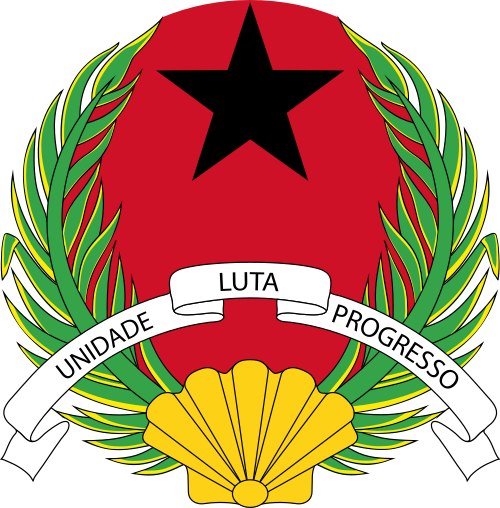
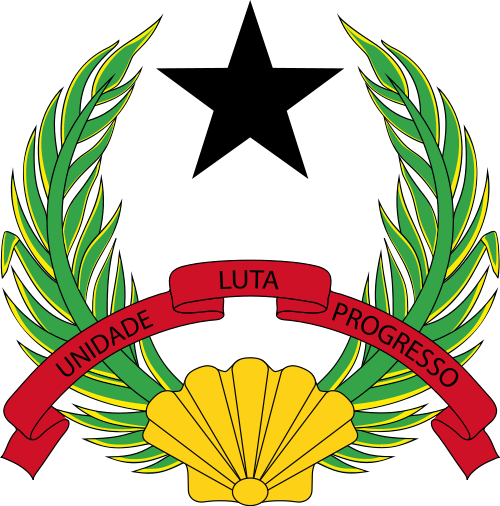
scraper update

diff --git a/newInfo.js b/newInfo.js
@@ -1,4 +1,4 @@
-const lastChecked = "August 1, 2023";
+const lastChecked = "August 3, 2023";
 const newInfo = [
     {
         country: {"name":"Afghanistan","url":"https://en.wikipedia.org/wiki/Afghanistan"}, 
@@ -28,7 +28,7 @@ const newInfo = [
     }, 
     {
         country: {"name":"Algeria","url":"https://en.wikipedia.org/wiki/Algeria"}, 
-        leader: {"title":"President","pos":"president","name":"Abdelmadjid Tebboune","url":"https://en.wikipedia.org/wiki/Abdelmadjid_Tebboune","imgUrl":"https://upload.wikimedia.org/wikipedia/commons/thumb/5/5b/%D0%90%D0%B1%D0%B4%D0%B5%D0%BB%D1%8C%D0%BC%D0%B0%D0%B4%D0%B6%D0%B8%D0%B4_%D0%A2%D0%B5%D0%B1%D0%B1%D1%83%D0%BD_%2806-11-2021%29.jpg/500px-%D0%90%D0%B1%D0%B4%D0%B5%D0%BB%D1%8C%D0%BC%D0%B0%D0%B4%D0%B6%D0%B8%D0%B4_%D0%A2%D0%B5%D0%B1%D0%B1%D1%83%D0%BD_%2806-11-2021%29.jpg"}, 
+        leader: {"title":"President","pos":"president","name":"Abdelmadjid Tebboune","url":"https://en.wikipedia.org/wiki/Abdelmadjid_Tebboune","imgUrl":"https://upload.wikimedia.org/wikipedia/commons/thumb/f/fb/Abdelmadjid_Tebboune_%282023%29_%28cropped%29.jpg/500px-Abdelmadjid_Tebboune_%282023%29_%28cropped%29.jpg"}, 
         flag: {"url":"https://upload.wikimedia.org/wikipedia/commons/thumb/7/77/Flag_of_Algeria.svg/500px-Flag_of_Algeria.svg.png"}, 
         symbol: {"url":"https://upload.wikimedia.org/wikipedia/commons/thumb/8/8d/National_Emblem_of_Algeria.svg/500px-National_Emblem_of_Algeria.svg.png"}, 
         map: {"url":"https://upload.wikimedia.org/wikipedia/commons/thumb/2/23/Algeria_%28centered_orthographic_projection%29.svg/500px-Algeria_%28centered_orthographic_projection%29.svg.png"}, 
@@ -346,7 +346,7 @@ const newInfo = [
         map: {"url":"https://upload.wikimedia.org/wikipedia/commons/thumb/8/86/Burkina_Faso_%28orthographic_projection%29.svg/500px-Burkina_Faso_%28orthographic_projection%29.svg.png"}, 
         capital: [{"name":"Ouagadougou","type":"capital"}], 
         language: {"list":["French"]}, 
-        demonym: {"name":"Burkinabè"}, 
+        demonym: {}, 
         currency: [{"full":"West African CFA franc"}], 
         tld: {"name":".bf"}, 
         largestCity: [{"name":"Ouagadougou","type":"largest city"}], 
@@ -392,7 +392,7 @@ const newInfo = [
     }, 
     {
         country: {"name":"Canada","url":"https://en.wikipedia.org/wiki/Canada"}, 
-        leader: {"title":"Prime Minister","pos":"prime minister","name":"Justin Trudeau","url":"https://en.wikipedia.org/wiki/Justin_Trudeau","imgUrl":"https://upload.wikimedia.org/wikipedia/commons/thumb/4/47/Justin_Trudeau_at_Eurasia_Group_2023_US-Canada_Summit_%2852807415495%29_%28cropped%29_%28cropped%29.jpg/500px-Justin_Trudeau_at_Eurasia_Group_2023_US-Canada_Summit_%2852807415495%29_%28cropped%29_%28cropped%29.jpg"}, 
+        leader: {"title":"Prime Minister","pos":"prime minister","name":"Justin Trudeau","url":"https://en.wikipedia.org/wiki/Justin_Trudeau","imgUrl":"https://upload.wikimedia.org/wikipedia/commons/thumb/f/ff/Justin_Trudeau_March_2022.jpg/500px-Justin_Trudeau_March_2022.jpg"}, 
         flag: {"url":"https://upload.wikimedia.org/wikipedia/commons/thumb/d/d9/Flag_of_Canada_%28Pantone%29.svg/500px-Flag_of_Canada_%28Pantone%29.svg.png"}, 
         symbol: {"url":"https://upload.wikimedia.org/wikipedia/en/thumb/4/4f/Coat_of_arms_of_Canada.svg/500px-Coat_of_arms_of_Canada.svg.png"}, 
         map: {"url":"https://upload.wikimedia.org/wikipedia/commons/thumb/6/67/CAN_orthographic.svg/500px-CAN_orthographic.svg.png"}, 
@@ -914,7 +914,7 @@ const newInfo = [
         country: {"name":"Guinea-Bissau","url":"https://en.wikipedia.org/wiki/Guinea-Bissau"}, 
         leader: {"title":"President","pos":"president","name":"Umaro Sissoco Embaló","url":"https://en.wikipedia.org/wiki/Umaro_Sissoco_Embal%C3%B3","imgUrl":"https://upload.wikimedia.org/wikipedia/commons/thumb/d/d1/Umaro_Sissoco_Embal%C3%B3_2019.jpg/500px-Umaro_Sissoco_Embal%C3%B3_2019.jpg"}, 
         flag: {"url":"https://upload.wikimedia.org/wikipedia/commons/thumb/0/01/Flag_of_Guinea-Bissau.svg/500px-Flag_of_Guinea-Bissau.svg.png"}, 
-        symbol: {"url":"https://upload.wikimedia.org/wikipedia/commons/thumb/0/06/Emblem_of_Guinea-Bissau.svg/500px-Emblem_of_Guinea-Bissau.svg.png"}, 
+        symbol: {"url":"https://upload.wikimedia.org/wikipedia/commons/thumb/1/19/Coat_of_arms_of_Guinea-Bissau_%28variant%29.svg/500px-Coat_of_arms_of_Guinea-Bissau_%28variant%29.svg.png"}, 
         map: {"url":"https://upload.wikimedia.org/wikipedia/commons/thumb/f/fe/Location_Guinea_Bissau_AU_Africa.svg/500px-Location_Guinea_Bissau_AU_Africa.svg.png"}, 
         capital: [{"name":"Bissau","type":"capital"}], 
         language: {"list":["Portuguese"]}, 
@@ -1307,7 +1307,7 @@ const newInfo = [
         symbol: {"url":"https://upload.wikimedia.org/wikipedia/commons/thumb/6/6b/Greater_coat_of_arms_of_the_grand-duchy_of_Luxembourg.svg/500px-Greater_coat_of_arms_of_the_grand-duchy_of_Luxembourg.svg.png"}, 
         map: {"url":"https://upload.wikimedia.org/wikipedia/commons/thumb/c/c3/EU-Luxembourg.svg/500px-EU-Luxembourg.svg.png"}, 
         capital: [{"name":"Luxembourg","type":"capital"}], 
-        language: {"list":["Luxembourgish","French","German"]}, 
+        language: {"list":["Luxembourgish"]}, 
         demonym: {"name":"Luxembourgish"}, 
         currency: [{"full":"euro"}], 
         tld: {"name":".lu"}, 
@@ -1367,7 +1367,7 @@ const newInfo = [
     }, 
     {
         country: {"name":"Mali","url":"https://en.wikipedia.org/wiki/Mali"}, 
-        leader: {"title":"Interim President","pos":"interim president","name":"Assimi Goïta","url":"https://en.wikipedia.org/wiki/Assimi_Go%C3%AFta","imgUrl":"https://upload.wikimedia.org/wikipedia/commons/thumb/2/29/Linda_Thomas-Greenfield_met_with_Malian_Transition_President_Go%C3%AFta_-_2021_%28cropped%29.jpg/500px-Linda_Thomas-Greenfield_met_with_Malian_Transition_President_Go%C3%AFta_-_2021_%28cropped%29.jpg"}, 
+        leader: {"title":"Interim President","pos":"interim president","name":"Assimi Goïta","url":"https://en.wikipedia.org/wiki/Assimi_Go%C3%AFta","imgUrl":"https://upload.wikimedia.org/wikipedia/commons/thumb/1/1c/Assimi_Goita%2C_August_2021_%28cropped%29.png/500px-Assimi_Goita%2C_August_2021_%28cropped%29.png"}, 
         flag: {"url":"https://upload.wikimedia.org/wikipedia/commons/thumb/9/92/Flag_of_Mali.svg/500px-Flag_of_Mali.svg.png"}, 
         symbol: {"url":"https://upload.wikimedia.org/wikipedia/commons/thumb/3/3e/Coat_of_arms_of_Mali.svg/500px-Coat_of_arms_of_Mali.svg.png"}, 
         map: {"url":"https://upload.wikimedia.org/wikipedia/commons/thumb/8/8b/Mali_%28orthographic_projection%29.svg/500px-Mali_%28orthographic_projection%29.svg.png"}, 
@@ -2501,7 +2501,7 @@ const newInfo = [
         leader: {"title":"Chairman of the Presidential Leadership Council","pos":"chairman of the Presidential Leadership Council","name":"Rashad al-Alimi","url":"https://en.wikipedia.org/wiki/Rashad_al-Alimi","imgUrl":"https://upload.wikimedia.org/wikipedia/commons/thumb/0/00/Rashad_al-Alimi_-_2023_%28cropped%29.jpg/500px-Rashad_al-Alimi_-_2023_%28cropped%29.jpg"}, 
         flag: {"url":"https://upload.wikimedia.org/wikipedia/commons/thumb/8/89/Flag_of_Yemen.svg/500px-Flag_of_Yemen.svg.png"}, 
         symbol: {"url":"https://upload.wikimedia.org/wikipedia/commons/thumb/c/c3/Emblem_of_Yemen_%282%29.svg/500px-Emblem_of_Yemen_%282%29.svg.png"}, 
-        map: {"url":"https://upload.wikimedia.org/wikipedia/commons/thumb/6/6e/Yemen_on_the_globe_%28Yemen_centered%29.svg/500px-Yemen_on_the_globe_%28Yemen_centered%29.svg.png"}, 
+        map: {"url":"https://upload.wikimedia.org/wikipedia/commons/thumb/6/68/Yemen_on_the_globe_%28Afro-Eurasia_centered%29.svg/500px-Yemen_on_the_globe_%28Afro-Eurasia_centered%29.svg.png"}, 
         capital: [{"name":"Sanaa","type":"capital"}], 
         language: {"list":["Arabic"]}, 
         demonym: {"name":"Yemeni"}, 

diff --git a/currentInfo.js b/currentInfo.js
@@ -1,4 +1,4 @@
-const lastChecked = "August 1, 2023";
+const lastChecked = "August 3, 2023";
 const currentInfo = [
     {
         country: {"name":"Afghanistan","url":"https://en.wikipedia.org/wiki/Afghanistan"}, 
@@ -28,7 +28,7 @@ const currentInfo = [
     }, 
     {
         country: {"name":"Algeria","url":"https://en.wikipedia.org/wiki/Algeria"}, 
-        leader: {"title":"President","pos":"president","name":"Abdelmadjid Tebboune","url":"https://en.wikipedia.org/wiki/Abdelmadjid_Tebboune","imgUrl":"https://upload.wikimedia.org/wikipedia/commons/thumb/5/5b/%D0%90%D0%B1%D0%B4%D0%B5%D0%BB%D1%8C%D0%BC%D0%B0%D0%B4%D0%B6%D0%B8%D0%B4_%D0%A2%D0%B5%D0%B1%D0%B1%D1%83%D0%BD_%2806-11-2021%29.jpg/500px-%D0%90%D0%B1%D0%B4%D0%B5%D0%BB%D1%8C%D0%BC%D0%B0%D0%B4%D0%B6%D0%B8%D0%B4_%D0%A2%D0%B5%D0%B1%D0%B1%D1%83%D0%BD_%2806-11-2021%29.jpg"}, 
+        leader: {"title":"President","pos":"president","name":"Abdelmadjid Tebboune","url":"https://en.wikipedia.org/wiki/Abdelmadjid_Tebboune","imgUrl":"https://upload.wikimedia.org/wikipedia/commons/thumb/f/fb/Abdelmadjid_Tebboune_%282023%29_%28cropped%29.jpg/500px-Abdelmadjid_Tebboune_%282023%29_%28cropped%29.jpg"}, 
         flag: {"url":"https://upload.wikimedia.org/wikipedia/commons/thumb/7/77/Flag_of_Algeria.svg/500px-Flag_of_Algeria.svg.png"}, 
         symbol: {"url":"https://upload.wikimedia.org/wikipedia/commons/thumb/8/8d/National_Emblem_of_Algeria.svg/500px-National_Emblem_of_Algeria.svg.png"}, 
         map: {"url":"https://upload.wikimedia.org/wikipedia/commons/thumb/2/23/Algeria_%28centered_orthographic_projection%29.svg/500px-Algeria_%28centered_orthographic_projection%29.svg.png"}, 
@@ -392,7 +392,7 @@ const currentInfo = [
     }, 
     {
         country: {"name":"Canada","url":"https://en.wikipedia.org/wiki/Canada"}, 
-        leader: {"title":"Prime Minister","pos":"prime minister","name":"Justin Trudeau","url":"https://en.wikipedia.org/wiki/Justin_Trudeau","imgUrl":"https://upload.wikimedia.org/wikipedia/commons/thumb/4/47/Justin_Trudeau_at_Eurasia_Group_2023_US-Canada_Summit_%2852807415495%29_%28cropped%29_%28cropped%29.jpg/500px-Justin_Trudeau_at_Eurasia_Group_2023_US-Canada_Summit_%2852807415495%29_%28cropped%29_%28cropped%29.jpg"}, 
+        leader: {"title":"Prime Minister","pos":"prime minister","name":"Justin Trudeau","url":"https://en.wikipedia.org/wiki/Justin_Trudeau","imgUrl":"https://upload.wikimedia.org/wikipedia/commons/thumb/f/ff/Justin_Trudeau_March_2022.jpg/500px-Justin_Trudeau_March_2022.jpg"}, 
         flag: {"url":"https://upload.wikimedia.org/wikipedia/commons/thumb/d/d9/Flag_of_Canada_%28Pantone%29.svg/500px-Flag_of_Canada_%28Pantone%29.svg.png"}, 
         symbol: {"url":"https://upload.wikimedia.org/wikipedia/en/thumb/4/4f/Coat_of_arms_of_Canada.svg/500px-Coat_of_arms_of_Canada.svg.png"}, 
         map: {"url":"https://upload.wikimedia.org/wikipedia/commons/thumb/6/67/CAN_orthographic.svg/500px-CAN_orthographic.svg.png"}, 
@@ -914,7 +914,7 @@ const currentInfo = [
         country: {"name":"Guinea-Bissau","url":"https://en.wikipedia.org/wiki/Guinea-Bissau"}, 
         leader: {"title":"President","pos":"president","name":"Umaro Sissoco Embaló","url":"https://en.wikipedia.org/wiki/Umaro_Sissoco_Embal%C3%B3","imgUrl":"https://upload.wikimedia.org/wikipedia/commons/thumb/d/d1/Umaro_Sissoco_Embal%C3%B3_2019.jpg/500px-Umaro_Sissoco_Embal%C3%B3_2019.jpg"}, 
         flag: {"url":"https://upload.wikimedia.org/wikipedia/commons/thumb/0/01/Flag_of_Guinea-Bissau.svg/500px-Flag_of_Guinea-Bissau.svg.png"}, 
-        symbol: {"url":"https://upload.wikimedia.org/wikipedia/commons/thumb/0/06/Emblem_of_Guinea-Bissau.svg/500px-Emblem_of_Guinea-Bissau.svg.png"}, 
+        symbol: {"url":"https://upload.wikimedia.org/wikipedia/commons/thumb/1/19/Coat_of_arms_of_Guinea-Bissau_%28variant%29.svg/500px-Coat_of_arms_of_Guinea-Bissau_%28variant%29.svg.png"}, 
         map: {"url":"https://upload.wikimedia.org/wikipedia/commons/thumb/f/fe/Location_Guinea_Bissau_AU_Africa.svg/500px-Location_Guinea_Bissau_AU_Africa.svg.png"}, 
         capital: [{"name":"Bissau","type":"capital"}], 
         language: {"list":["Portuguese"]}, 
@@ -1367,7 +1367,7 @@ const currentInfo = [
     }, 
     {
         country: {"name":"Mali","url":"https://en.wikipedia.org/wiki/Mali"}, 
-        leader: {"title":"Interim President","pos":"interim president","name":"Assimi Goïta","url":"https://en.wikipedia.org/wiki/Assimi_Go%C3%AFta","imgUrl":"https://upload.wikimedia.org/wikipedia/commons/thumb/2/29/Linda_Thomas-Greenfield_met_with_Malian_Transition_President_Go%C3%AFta_-_2021_%28cropped%29.jpg/500px-Linda_Thomas-Greenfield_met_with_Malian_Transition_President_Go%C3%AFta_-_2021_%28cropped%29.jpg"}, 
+        leader: {"title":"Interim President","pos":"interim president","name":"Assimi Goïta","url":"https://en.wikipedia.org/wiki/Assimi_Go%C3%AFta","imgUrl":"https://upload.wikimedia.org/wikipedia/commons/thumb/1/1c/Assimi_Goita%2C_August_2021_%28cropped%29.png/500px-Assimi_Goita%2C_August_2021_%28cropped%29.png"}, 
         flag: {"url":"https://upload.wikimedia.org/wikipedia/commons/thumb/9/92/Flag_of_Mali.svg/500px-Flag_of_Mali.svg.png"}, 
         symbol: {"url":"https://upload.wikimedia.org/wikipedia/commons/thumb/3/3e/Coat_of_arms_of_Mali.svg/500px-Coat_of_arms_of_Mali.svg.png"}, 
         map: {"url":"https://upload.wikimedia.org/wikipedia/commons/thumb/8/8b/Mali_%28orthographic_projection%29.svg/500px-Mali_%28orthographic_projection%29.svg.png"}, 

diff --git a/test.js b/test.js
@@ -1,19 +1,18 @@
 async function getData(){
 
     try {
-        const response = await require('axios').get("https://en.wikipedia.org/wiki/Abdourahamane_Tchiani");
+        const response = await require('axios').get("https://en.wikipedia.org/wiki/Yemen");
         const data = require('cheerio').load(response.data);
         const size= "500px";
 
-        let num = 3;
-        let type = "jpg";
+        let flagNum = 4;
+        let flagType = "svg";
 
-        imgURL = data(`img`)[num].attribs.src;
-        pxSize = imgURL.substring(imgURL.indexOf(`.${type}/`) + (type.length + 2), imgURL.lastIndexOf("px"));
-        imgURL = imgURL.replace(pxSize, "500");
-        imgURL = imgURL.replace("//", "https://")
-        console.log(imgURL);
-        masterList[i].leader.imgUrl = imgURL;
+        flagURL = data(`img`)[flagNum].attribs.src;
+        pxSize = flagURL.substring(flagURL.indexOf(`.${flagType}/`) + 5, flagURL.lastIndexOf("px") + 2);
+        flagURL = flagURL.replace(pxSize, size);
+        flagURL = flagURL.replace("//", "https://")
+        console.log(flagURL);
 
     } catch (error) {
     }

diff --git a/scraper.js b/scraper.js
@@ -3241,11 +3241,13 @@ async function getData(){
                         leaderImg(4, "jpg");
                         break;
                     case 95:    // Lesotho
-                        leaderImg(5, "jpg");
+                        leaderImg(6, "jpg");
                         break;
                     case 101:   // Madagascar
                         leaderImg(3, "png");
                         break;
+                    case 105:   // Mali
+                        leaderImg(3, "png");
                     case 108:   // Mauritania
                         leaderImg(4, "jpg");
                         break;
